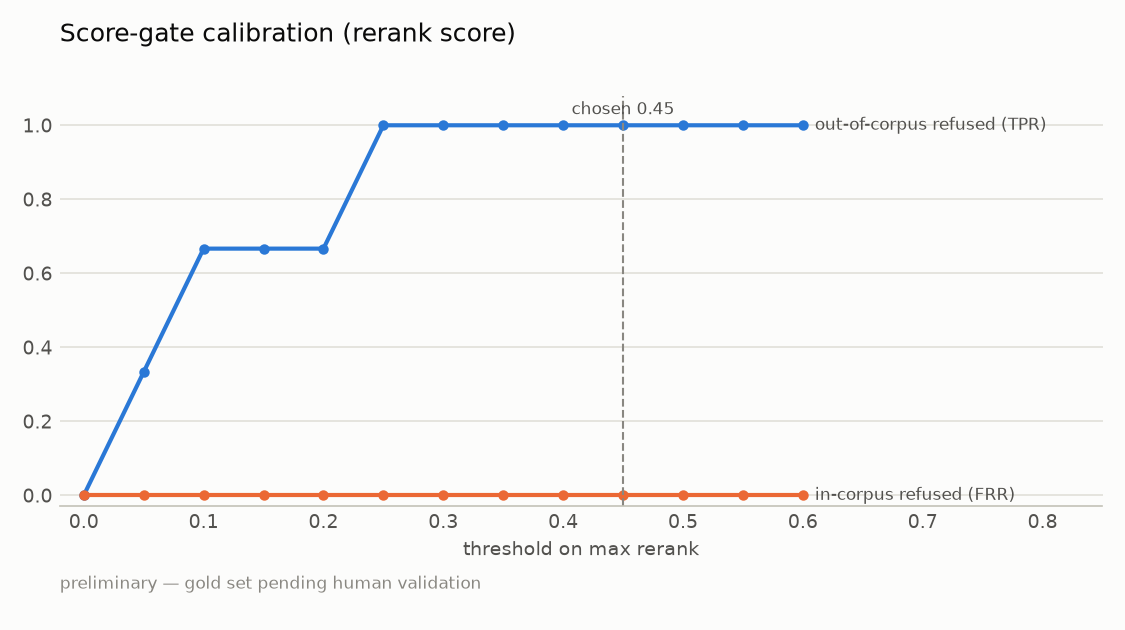
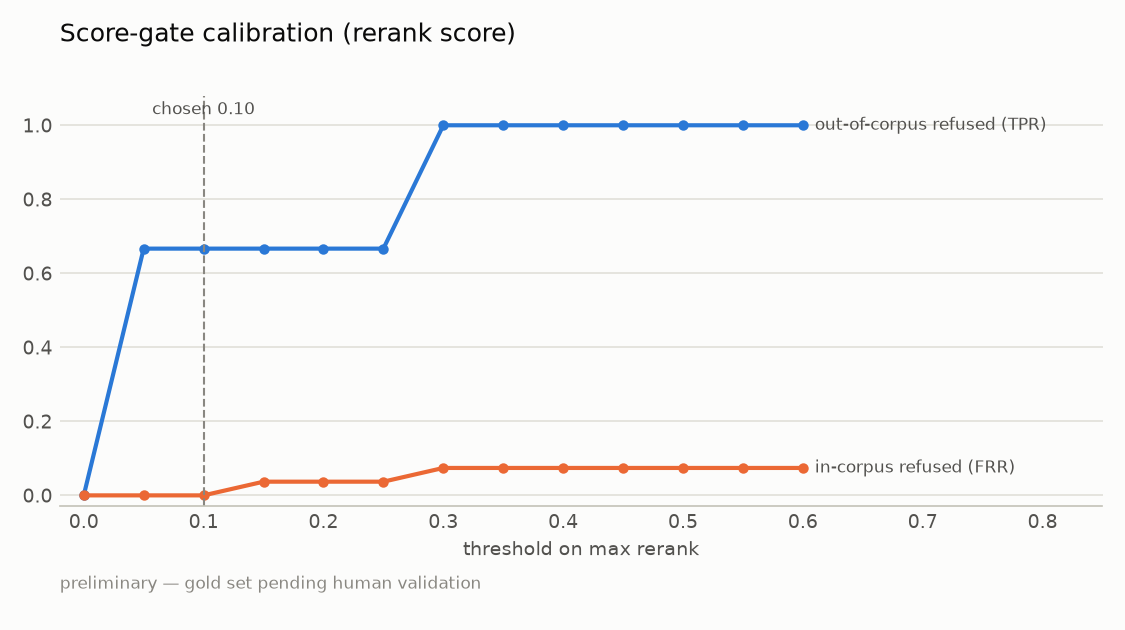
feat(eval): retrieval re-run with router v2 and the new reranker defaults
All 8 configurations re-evaluated; gate recalibrated for bge-reranker-base (0.10: 2/3 out-of-corpus questions refused at the gate, no false refusals; the OSPF question scores above one in-corpus question). Router v1 vs v2 compared with identical retrieval settings. Original (router v1, bge-reranker-v2-m3) results kept as *_router_v1.csv.

diff --git a/eval/make_report.py b/eval/make_report.py
@@ -705,13 +705,18 @@ def reranker_bench_section() -> list[str]:
 
 
 def router_before_after_section() -> list[str]:
-    old = {r["config"]: r for r in read_csv(RESULTS_DIR / "router_accuracy_router_v1.csv")}
+    tag = (
+        "router_v1_same_reranker"
+        if (RESULTS_DIR / "retrieval_ablation_router_v1_same_reranker.csv").exists()
+        else "router_v1"
+    )
+    old = {r["config"]: r for r in read_csv(RESULTS_DIR / f"router_accuracy_{tag}.csv")}
     new = {r["config"]: r for r in read_csv(RESULTS_DIR / "router_accuracy.csv")}
     if "best" not in old or "best" not in new:
         return []
     ret_old = {
         (r["config"], r["group"]): r
-        for r in read_csv(RESULTS_DIR / "retrieval_ablation_router_v1.csv")
+        for r in read_csv(RESULTS_DIR / f"retrieval_ablation_{tag}.csv")
     }
     ret_new = {
         (r["config"], r["group"]): r for r in read_csv(RESULTS_DIR / "retrieval_ablation.csv")
@@ -723,7 +728,8 @@ def router_before_after_section() -> list[str]:
         '"procedure … messages" phrasing → both specs; more verbs that ask what a network '
         "function does). It was tuned **only** on `tests/test_router.py` (12 new cross-spec "
         "questions written independently of the test set, plus single-spec guards); the "
-        "evaluation set was not used for tuning. v1 = the original run.",
+        "evaluation set was not used for tuning. Both columns use the same retrieval settings "
+        "(current reranker defaults); only `retrieval.router_version` differs.",
         "",
     ]
     body = []

diff --git a/eval/results/REPORT.md b/eval/results/REPORT.md
@@ -5,10 +5,10 @@
 ## Setup
 
 - Corpus: TS 23.501 V18.12.0 (Rel-18), TS 24.501 V18.14.0 (Rel-18) — see `data/VERSIONS.md`
-- Embeddings: `BAAI/bge-m3` · reranker: `BAAI/bge-reranker-v2-m3` · vector DB: Qdrant (cosine) · BM25: bm25s + telecom tokenizer · RRF k = 60
-- Retrieval: dense top 50, BM25 top 50, fused top 30, final top-k 6, ≥2 chunks per spec for cross routes
+- Embeddings: `BAAI/bge-m3` · reranker: `BAAI/bge-reranker-base` · vector DB: Qdrant (cosine) · BM25: bm25s + telecom tokenizer · RRF k = 60
+- Retrieval: dense top 50, BM25 top 50, fused top 15, final top-k 6, ≥2 chunks per spec for cross routes
 - Test set: 30 questions (20 simple, 7 cross, 3 out-of-corpus); retrieval metrics on the 27 in-corpus questions, top-10 ranking after fusion/rerank; a hit is the gold section or one of its sub-clauses, same spec
-- Retrieval run: 2026-11-21 20:51 UTC, commit `49b110c`
+- Retrieval run: 2026-11-22 03:41 UTC, commit `c1d4a56`
 
 Configurations: `best` = hybrid on, reranker on, routing on; `no_hybrid` = hybrid off, reranker on, routing on; `no_reranker` = hybrid on, reranker off, routing on; `no_routing` = hybrid on, reranker on, routing off; `hybrid_only` = hybrid on, reranker off, routing off; `reranker_only` = hybrid off, reranker on, routing off; `routing_only` = hybrid off, reranker off, routing on; `baseline` = hybrid off, reranker off, routing off
 
@@ -18,12 +18,12 @@ Configurations: `best` = hybrid on, reranker on, routing on; `no_hybrid` = hybri
 
 | Config | Hybrid | Reranker | Routing | R@1 | R@3 | R@5 | R@10 | MRR |
 |---|---|---|---|---|---|---|---|---|
-| best | ✓ | ✓ | ✓ | 0.667 | 0.778 | 0.852 | 0.926 | 0.734 |
-| no_hybrid | ✗ | ✓ | ✓ | 0.704 | 0.852 | 0.926 | 0.963 | 0.790 |
+| best | ✓ | ✓ | ✓ | 0.704 | 0.778 | 0.815 | 0.852 | 0.747 |
+| no_hybrid | ✗ | ✓ | ✓ | 0.778 | 0.852 | 0.852 | 0.926 | 0.817 |
 | no_reranker | ✓ | ✗ | ✓ | 0.481 | 0.704 | 0.815 | 0.889 | 0.622 |
-| no_routing | ✓ | ✓ | ✗ | 0.667 | 0.852 | 0.926 | 0.963 | 0.762 |
+| no_routing | ✓ | ✓ | ✗ | 0.593 | 0.741 | 0.852 | 0.889 | 0.691 |
 | hybrid_only | ✓ | ✗ | ✗ | 0.407 | 0.667 | 0.778 | 0.889 | 0.574 |
-| reranker_only | ✗ | ✓ | ✗ | 0.704 | 0.926 | 0.926 | 0.963 | 0.795 |
+| reranker_only | ✗ | ✓ | ✗ | 0.704 | 0.852 | 0.889 | 0.926 | 0.785 |
 | routing_only | ✗ | ✗ | ✓ | 0.630 | 0.852 | 0.889 | 0.926 | 0.730 |
 | baseline | ✗ | ✗ | ✗ | 0.556 | 0.815 | 0.889 | 0.926 | 0.677 |
 
@@ -31,12 +31,12 @@ Configurations: `best` = hybrid on, reranker on, routing on; `no_hybrid` = hybri
 
 | Config | simple-23 R@5 | simple-24 R@5 | cross R@5 | simple-23 MRR | simple-24 MRR | cross MRR | cross both-spec R@5 | cross both-spec R@10 |
 |---|---|---|---|---|---|---|---|---|
-| best | 1.000 | 1.000 | 0.429 | 0.787 | 0.870 | 0.465 | 0.000 | 0.000 |
-| no_hybrid | 1.000 | 1.000 | 0.714 | 0.792 | 0.950 | 0.559 | 0.000 | 0.000 |
+| best | 0.900 | 1.000 | 0.429 | 0.900 | 0.803 | 0.446 | 0.000 | 0.000 |
+| no_hybrid | 1.000 | 1.000 | 0.429 | 1.000 | 0.883 | 0.462 | 0.000 | 0.000 |
 | no_reranker | 0.800 | 0.900 | 0.714 | 0.717 | 0.623 | 0.486 | 0.000 | 0.000 |
-| no_routing | 1.000 | 1.000 | 0.714 | 0.792 | 0.870 | 0.566 | 0.143 | 0.143 |
+| no_routing | 0.800 | 1.000 | 0.714 | 0.750 | 0.803 | 0.446 | 0.143 | 0.143 |
 | hybrid_only | 0.800 | 0.900 | 0.571 | 0.625 | 0.625 | 0.427 | 0.143 | 0.143 |
-| reranker_only | 1.000 | 1.000 | 0.714 | 0.800 | 0.950 | 0.568 | 0.143 | 0.286 |
+| reranker_only | 1.000 | 1.000 | 0.571 | 0.950 | 0.883 | 0.407 | 0.143 | 0.143 |
 | routing_only | 0.900 | 1.000 | 0.714 | 0.796 | 0.792 | 0.548 | 0.000 | 0.000 |
 | baseline | 0.900 | 1.000 | 0.714 | 0.679 | 0.792 | 0.512 | 0.143 | 0.286 |
 
@@ -46,27 +46,27 @@ Configurations: `best` = hybrid on, reranker on, routing on; `no_hybrid` = hybri
 
 | n | route ⊇ gold specs | exact | exact simple-23 | exact simple-24 | exact cross |
 |---|---|---|---|---|---|
-| 27 | 0.778 | 0.741 | 1.000 | 0.900 | 0.143 |
+| 27 | 0.815 | 0.778 | 1.000 | 0.900 | 0.286 |
 
 ### Score-gate calibration — *preliminary — gold set pending human validation*
 
-Rule: max refusal TPR with zero false refusals; ties -> middle threshold. Chosen: reranker_threshold = **0.45**, dense_threshold = **0.25** (recorded in `config.yaml`).
+Rule: max refusal TPR with zero false refusals; ties -> middle threshold. Chosen: reranker_threshold = **0.1**, dense_threshold = **0.25** (recorded in `config.yaml`).
 
 | threshold | refusal TPR (out-of-corpus) | false-refusal rate |
 |---|---|---|
 | 0.0 | 0.000 | 0.000 |
-| 0.05 | 0.333 | 0.000 |
+| 0.05 | 0.667 | 0.000 |
 | 0.1 | 0.667 | 0.000 |
-| 0.15 | 0.667 | 0.000 |
-| 0.2 | 0.667 | 0.000 |
-| 0.25 | 1.000 | 0.000 |
-| 0.3 | 1.000 | 0.000 |
-| 0.35 | 1.000 | 0.000 |
-| 0.4 | 1.000 | 0.000 |
-| 0.45 | 1.000 | 0.000 |
-| 0.5 | 1.000 | 0.000 |
-| 0.55 | 1.000 | 0.000 |
-| 0.6 | 1.000 | 0.000 |
+| 0.15 | 0.667 | 0.037 |
+| 0.2 | 0.667 | 0.037 |
+| 0.25 | 0.667 | 0.037 |
+| 0.3 | 1.000 | 0.074 |
+| 0.35 | 1.000 | 0.074 |
+| 0.4 | 1.000 | 0.074 |
+| 0.45 | 1.000 | 0.074 |
+| 0.5 | 1.000 | 0.074 |
+| 0.55 | 1.000 | 0.074 |
+| 0.6 | 1.000 | 0.074 |
 
 ![gate max_rerank](figures/gate_max_rerank.png)
 
@@ -100,7 +100,7 @@ Rule: max refusal TPR with zero false refusals; ties -> middle threshold. Chosen
 | no_reranker | 30/30 | 1.00 | 0.77 | 0.97 | 0.97 | 0.67 | 0.00 | 0.33 | 1.00 | 0.50 | 6 | 1.7 | 2.7 | 0.00 |
 | no_routing | 30/30 | 0.97 | 0.92 | 0.97 | 0.97 | 0.89 | 0.00 | 0.75 | 1.00 | 0.86 | 1 | 1.8 | 3.4 | 0.00 |
 
-Faithfulness and correctness: LLM judge with a fixed 0 / 0.5 / 1 rubric (`eval/metrics.py`), judge = Gemini. Citation accuracy = valid citations / all citations (strict: exact section among the sources; loose: also ancestors). Gold cited = answer cites ≥1 gold section.
+Faithfulness and correctness: LLM judge with a fixed 0 / 0.5 / 1 rubric (`eval/metrics.py`), judge = Gemini — **the same model that generated the answers**, so these two columns may carry self-preference bias; see the cross-judging section for the check. Citation accuracy = valid citations / all citations (strict: exact section among the sources; loose: also ancestors). Gold cited = answer cites ≥1 gold section.
 
 ![generation gemini](figures/generation_gemini.png)
 
@@ -112,6 +112,119 @@ Faithfulness and correctness: LLM judge with a fixed 0 / 0.5 / 1 rubric (`eval/m
 | no_reranker | 5 | gemini-3.5-flash-lite | 2.0 | 3.4 | 0.14 | 0.0 | 1.87 |
 
 The latency columns of the generation table above reuse cached reranker scores (`eval/results/raw/rerank_cache.json`) and therefore exclude the cross-encoder compute; this table (`python -m eval.measure_latency`) shows what an app user waits for on CPU.
+
+## Cross-judging: self-preference check
+
+The main generation tables are judged by the same model that wrote the answers (gemini-3.5-flash-lite judges gemini-3.5-flash-lite). As a check, the `best` answers of two models are each judged by both judges, on frozen answer sets (`eval/results/raw/crossjudge/`) with the same rubric. Both answer sets were produced with router v1 (the router at the time of the original run).
+
+**Faithfulness**
+
+| Answers \ Judge | gemini judge (?) | groq judge (openai/gpt-oss-120b) |
+|---|---|---|
+| gemini answers (gemini-3.5-flash-lite) | pending | 1.00 (n=10) |
+| groq answers (openai/gpt-oss-120b) | pending | pending |
+
+**Correctness**
+
+| Answers \ Judge | gemini judge (?) | groq judge (openai/gpt-oss-120b) |
+|---|---|---|
+| gemini answers (gemini-3.5-flash-lite) | pending | 0.95 (n=10) |
+| groq answers (openai/gpt-oss-120b) | pending | pending |
+
+Metrics that need no judge (same frozen answers):
+
+| Answers | Citation acc. | Gold cited | Refusal P | Refusal R | Refusal F1 | False refusals |
+|---|---|---|---|---|---|---|
+| gemini (gemini-3.5-flash-lite) | 0.98 | 0.81 | 0.60 | 1.00 | 0.75 | 2 |
+| groq (openai/gpt-oss-120b) | 0.98 | 0.67 | 0.00 | 0.00 | 0.00 | 1 |
+
+Some cells are still pending (free-tier quotas); complete them with `python -m eval.run_cross_judge --judge gemini` / `--judge groq`.
+
+## False refusals: gate or LLM?
+
+15 in-corpus questions were refused across the generation configurations: **0 by the score gate**, **15 by the LLM** after it saw the sources. A gate refusal means retrieval found nothing above the threshold; an LLM refusal means the model judged the retrieved sources insufficient (typically one half of a cross-spec question was missing).
+
+| Config | Question | Type | Refused by | Gate score |
+|---|---|---|---|---|
+| `best` | `x-03` | cross | LLM (gemini-3.5-flash-lite) | 0.987 |
+| `best` | `x-05` | cross | LLM (gemini-3.5-flash-lite) | 0.991 |
+| `no_hybrid` | `x-01` | cross | LLM (gemini-3.5-flash-lite) | 0.995 |
+| `no_hybrid` | `x-03` | cross | LLM (gemini-3.5-flash-lite) | 0.987 |
+| `no_reranker` | `s23-07` | simple | LLM (gemini-3.5-flash-lite) | 0.765 |
+| `no_reranker` | `s24-06` | simple | LLM (gemini-3.5-flash-lite) | 0.638 |
+| `no_reranker` | `x-01` | cross | LLM (gemini-3.5-flash-lite) | 0.766 |
+| `no_reranker` | `x-03` | cross | LLM (gemini-3.5-flash-lite) | 0.748 |
+| `no_reranker` | `x-04` | cross | LLM (gemini-3.5-flash-lite) | 0.625 |
+| `no_reranker` | `x-06` | cross | LLM (gemini-3.5-flash-lite) | 0.753 |
+| `no_routing` | `x-05` | cross | LLM (gemini-3.5-flash-lite) | 0.995 |
+| `baseline` | `s23-01` | simple | LLM (gemini-3.5-flash-lite) | 0.664 |
+| `baseline` | `x-01` | cross | LLM (gemini-3.5-flash-lite) | 0.766 |
+| `baseline` | `x-03` | cross | LLM (gemini-3.5-flash-lite) | 0.748 |
+| `baseline` | `x-05` | cross | LLM (gemini-3.5-flash-lite) | 0.730 |
+
+## Reranker speed / quality benchmark (CPU)
+
+MRR / recall of the `best` configuration on the in-corpus questions for each number of fused candidates sent to the reranker (`retrieval.fused_top_n`) and truncation length (`reranker.max_length`). Latency = reranking time per answer, measured without cache on a fixed sample of questions; retrieval = reranking + routing / dense / BM25. The LLM adds ≈ 2 s (see the latency table).
+
+| Reranker | fused_top_n | max_length | MRR | R@5 | R@10 | rerank s/answer | max s | retrieval s/answer |
+|---|---|---|---|---|---|---|---|---|
+| bge-reranker-v2-m3 | 15 | 512 | 0.754 | 0.852 | 0.852 | 12.8 | 13.0 | 13.0 |
+| bge-reranker-v2-m3 | 20 | 512 | 0.744 | 0.852 | 0.926 | 16.6 | 17.5 | 16.8 |
+| bge-reranker-v2-m3 | 30 | 512 | 0.732 | 0.852 | 0.889 | 26.0 | 26.6 | 26.2 |
+| bge-reranker-v2-m3 | 15 | 1024 | 0.753 | 0.852 | 0.889 | 23.4 | 24.5 | 23.6 |
+| bge-reranker-v2-m3 | 20 | 1024 | 0.756 | 0.852 | 0.926 | 27.9 | 30.6 | 28.0 |
+| bge-reranker-v2-m3 | 30 | 1024 | 0.734 | 0.852 | 0.926 | 43.8 | 46.1 | 43.9 |
+| bge-reranker-base | 15 | 512 | 0.747 | 0.815 | 0.852 | 3.9 | 4.0 | 4.0 |
+| bge-reranker-base | 20 | 512 | 0.746 | 0.852 | 0.889 | 4.9 | 5.3 | 5.0 |
+| bge-reranker-base | 30 | 512 | 0.727 | 0.852 | 0.852 | 7.6 | 8.1 | 7.8 |
+
+**Chosen default:** BAAI/bge-reranker-base with fused_top_n=15, max_length=512: MRR 0.747 vs 0.734 for the previous default (bge-reranker-v2-m3, 30, 1024); reranking 3.9 s instead of 43.8 s per answer on this CPU. Rule: fastest setting whose MRR stays within 0.02 of the previous default. Trade-offs: recall@5 0.815 vs 0.852 (one question); bge-reranker-base is English/Chinese, not multilingual (the French bonus used bge-reranker-v2-m3).
+
+## Router: before / after
+
+Router v2 adds three general rules (architecture AND NAS signals → both specs; "procedure … messages" phrasing → both specs; more verbs that ask what a network function does). It was tuned **only** on `tests/test_router.py` (12 new cross-spec questions written independently of the test set, plus single-spec guards); the evaluation set was not used for tuning. Both columns use the same retrieval settings (current reranker defaults); only `retrieval.router_version` differs.
+
+| Router accuracy (config best) | v1 | v2 |
+|---|---|---|
+| route ⊇ gold specs | 0.778 | 0.815 |
+| exact route | 0.741 | 0.778 |
+| exact, simple 23.501 | 1.000 | 1.000 |
+| exact, simple 24.501 | 0.900 | 0.900 |
+| exact, cross-spec | 0.143 | 0.286 |
+
+| Config | Metric | v1 | v2 |
+|---|---|---|---|
+| `best` | cross recall@5 | 0.429 | 0.429 |
+| `best` | cross both_recall@5 | 0.000 | 0.000 |
+| `best` | cross mrr | 0.446 | 0.446 |
+| `best` | all recall@5 | 0.815 | 0.815 |
+| `best` | all mrr | 0.747 | 0.747 |
+| `routing_only` | cross recall@5 | 0.714 | 0.714 |
+| `routing_only` | cross both_recall@5 | 0.000 | 0.000 |
+| `routing_only` | cross mrr | 0.548 | 0.548 |
+| `routing_only` | all recall@5 | 0.889 | 0.889 |
+| `routing_only` | all mrr | 0.730 | 0.730 |
+
+## Statistical caution
+
+Only **n = 27** in-corpus questions are scored, so one question moves recall@k by **0.037** and a difference of a few hundredths is a single question. The table gives the paired difference of per-question scores between two configurations that differ by one component, with a 95% paired-bootstrap interval (10,000 resamples, seed 42). A difference is called *robust* only when the interval excludes 0; otherwise it is within noise for this test set.
+
+| Component | Comparison | Metric | Δ | 95% CI | Verdict |
+|---|---|---|---|---|---|
+| reranker (all else on) | `best` − `no_reranker` | mrr | +0.125 | [+0.021, +0.243] | robust |
+| reranker (all else on) | `best` − `no_reranker` | recall@5 | +0.000 | [-0.148, +0.148] | within noise |
+| reranker (dense only) | `reranker_only` − `baseline` | mrr | +0.107 | [-0.015, +0.236] | within noise |
+| reranker (dense only) | `reranker_only` − `baseline` | recall@5 | +0.000 | [-0.111, +0.111] | within noise |
+| BM25 fusion (with reranker) | `best` − `no_hybrid` | mrr | -0.071 | [-0.165, -0.004] | robust |
+| BM25 fusion (with reranker) | `best` − `no_hybrid` | recall@5 | -0.037 | [-0.111, +0.000] | within noise |
+| BM25 fusion (no reranker) | `hybrid_only` − `baseline` | mrr | -0.104 | [-0.244, +0.038] | within noise |
+| BM25 fusion (no reranker) | `hybrid_only` − `baseline` | recall@5 | -0.111 | [-0.259, +0.000] | within noise |
+| routing (with reranker) | `best` − `no_routing` | mrr | +0.056 | [-0.037, +0.167] | within noise |
+| routing (with reranker) | `best` − `no_routing` | recall@5 | -0.037 | [-0.148, +0.074] | within noise |
+| routing (no reranker) | `routing_only` − `baseline` | mrr | +0.052 | [+0.000, +0.120] | within noise |
+| routing (no reranker) | `routing_only` − `baseline` | recall@5 | +0.000 | [+0.000, +0.000] | within noise |
+
+Robust effects on this set: BM25 fusion (with reranker), reranker (all else on). Every other difference in the ablation tables, including hybrid vs no-hybrid, should be read as *not established* until a larger, validated test set confirms it.
 
 ## Qualitative examples (config `best`)
 
@@ -198,12 +311,13 @@ Route: TS 24.501, TS 23.501 (no signal) · gate score 0.202 · sources: none · 
 
 ## Failure analysis
 
-**Retrieval misses (config `best`, no gold section in top-5): 4**
+**Retrieval misses (config `best`, no gold section in top-5): 5**
 
-- `x-01` gold TS 23.501 §5.3.2; TS 24.501 §5.5.1.2 — route TS 23.501, TS 24.501; top-3 retrieved: TS 24.501 §4.4.2.5, TS 24.501 §5.3.1.1, TS 24.501 §4.4.2.5; R@10 = 0.0
-- `x-02` gold TS 23.501 §5.6.1; TS 24.501 §6.4.1 — route TS 24.501; top-3 retrieved: TS 24.501 §6.1.1, TS 24.501 §4.2, TS 24.501 §6.2.18; R@10 = 0.0
-- `x-04` gold TS 23.501 §5.3.2.3; TS 24.501 §5.3.7, §10.2 — route TS 23.501; top-3 retrieved: TS 23.501 §5.4.1.1, TS 23.501 §5.3.2.4, TS 23.501 §5.4.1.3; R@10 = 1.0
-- `x-07` gold TS 23.501 §5.10.1, §6.2.1; TS 24.501 §5.4.1, §5.4.2 — route TS 24.501; top-3 retrieved: TS 24.501 §4.4.2.1.1, TS 24.501 §4.4.2.5, TS 24.501 §4.4.2.5; R@10 = 1.0
+- `s23-01` gold TS 23.501 §6.2.1 — route TS 23.501; top-3 retrieved: TS 23.501 §3.2, TS 23.501 §4.2.2, TS 23.501 §5.21.2.1; R@10 = 0.0
+- `x-01` gold TS 23.501 §5.3.2; TS 24.501 §5.5.1.2 — route TS 23.501, TS 24.501; top-3 retrieved: TS 24.501 §4.4.2.5, TS 23.501 §5.3.3.1, TS 24.501 §4.4.2.5; R@10 = 0.0
+- `x-02` gold TS 23.501 §5.6.1; TS 24.501 §6.4.1 — route TS 24.501; top-3 retrieved: TS 24.501 §6.1.1, TS 24.501 §6.2.3, TS 24.501 §8.3.1.5; R@10 = 0.0
+- `x-04` gold TS 23.501 §5.3.2.3; TS 24.501 §5.3.7, §10.2 — route TS 23.501; top-3 retrieved: TS 23.501 §5.16.4.4, TS 23.501 §5.4.1.3, TS 23.501 §5.4.1.1; R@10 = 0.0
+- `x-07` gold TS 23.501 §5.10.1, §6.2.1; TS 24.501 §5.4.1, §5.4.2 — route TS 24.501; top-3 retrieved: TS 24.501 §4.4.2.6, TS 24.501 §4.4.1, TS 24.501 §4.4.4.3; R@10 = 1.0
 
 **Answers not judged fully correct (config `best`): 5**
 
